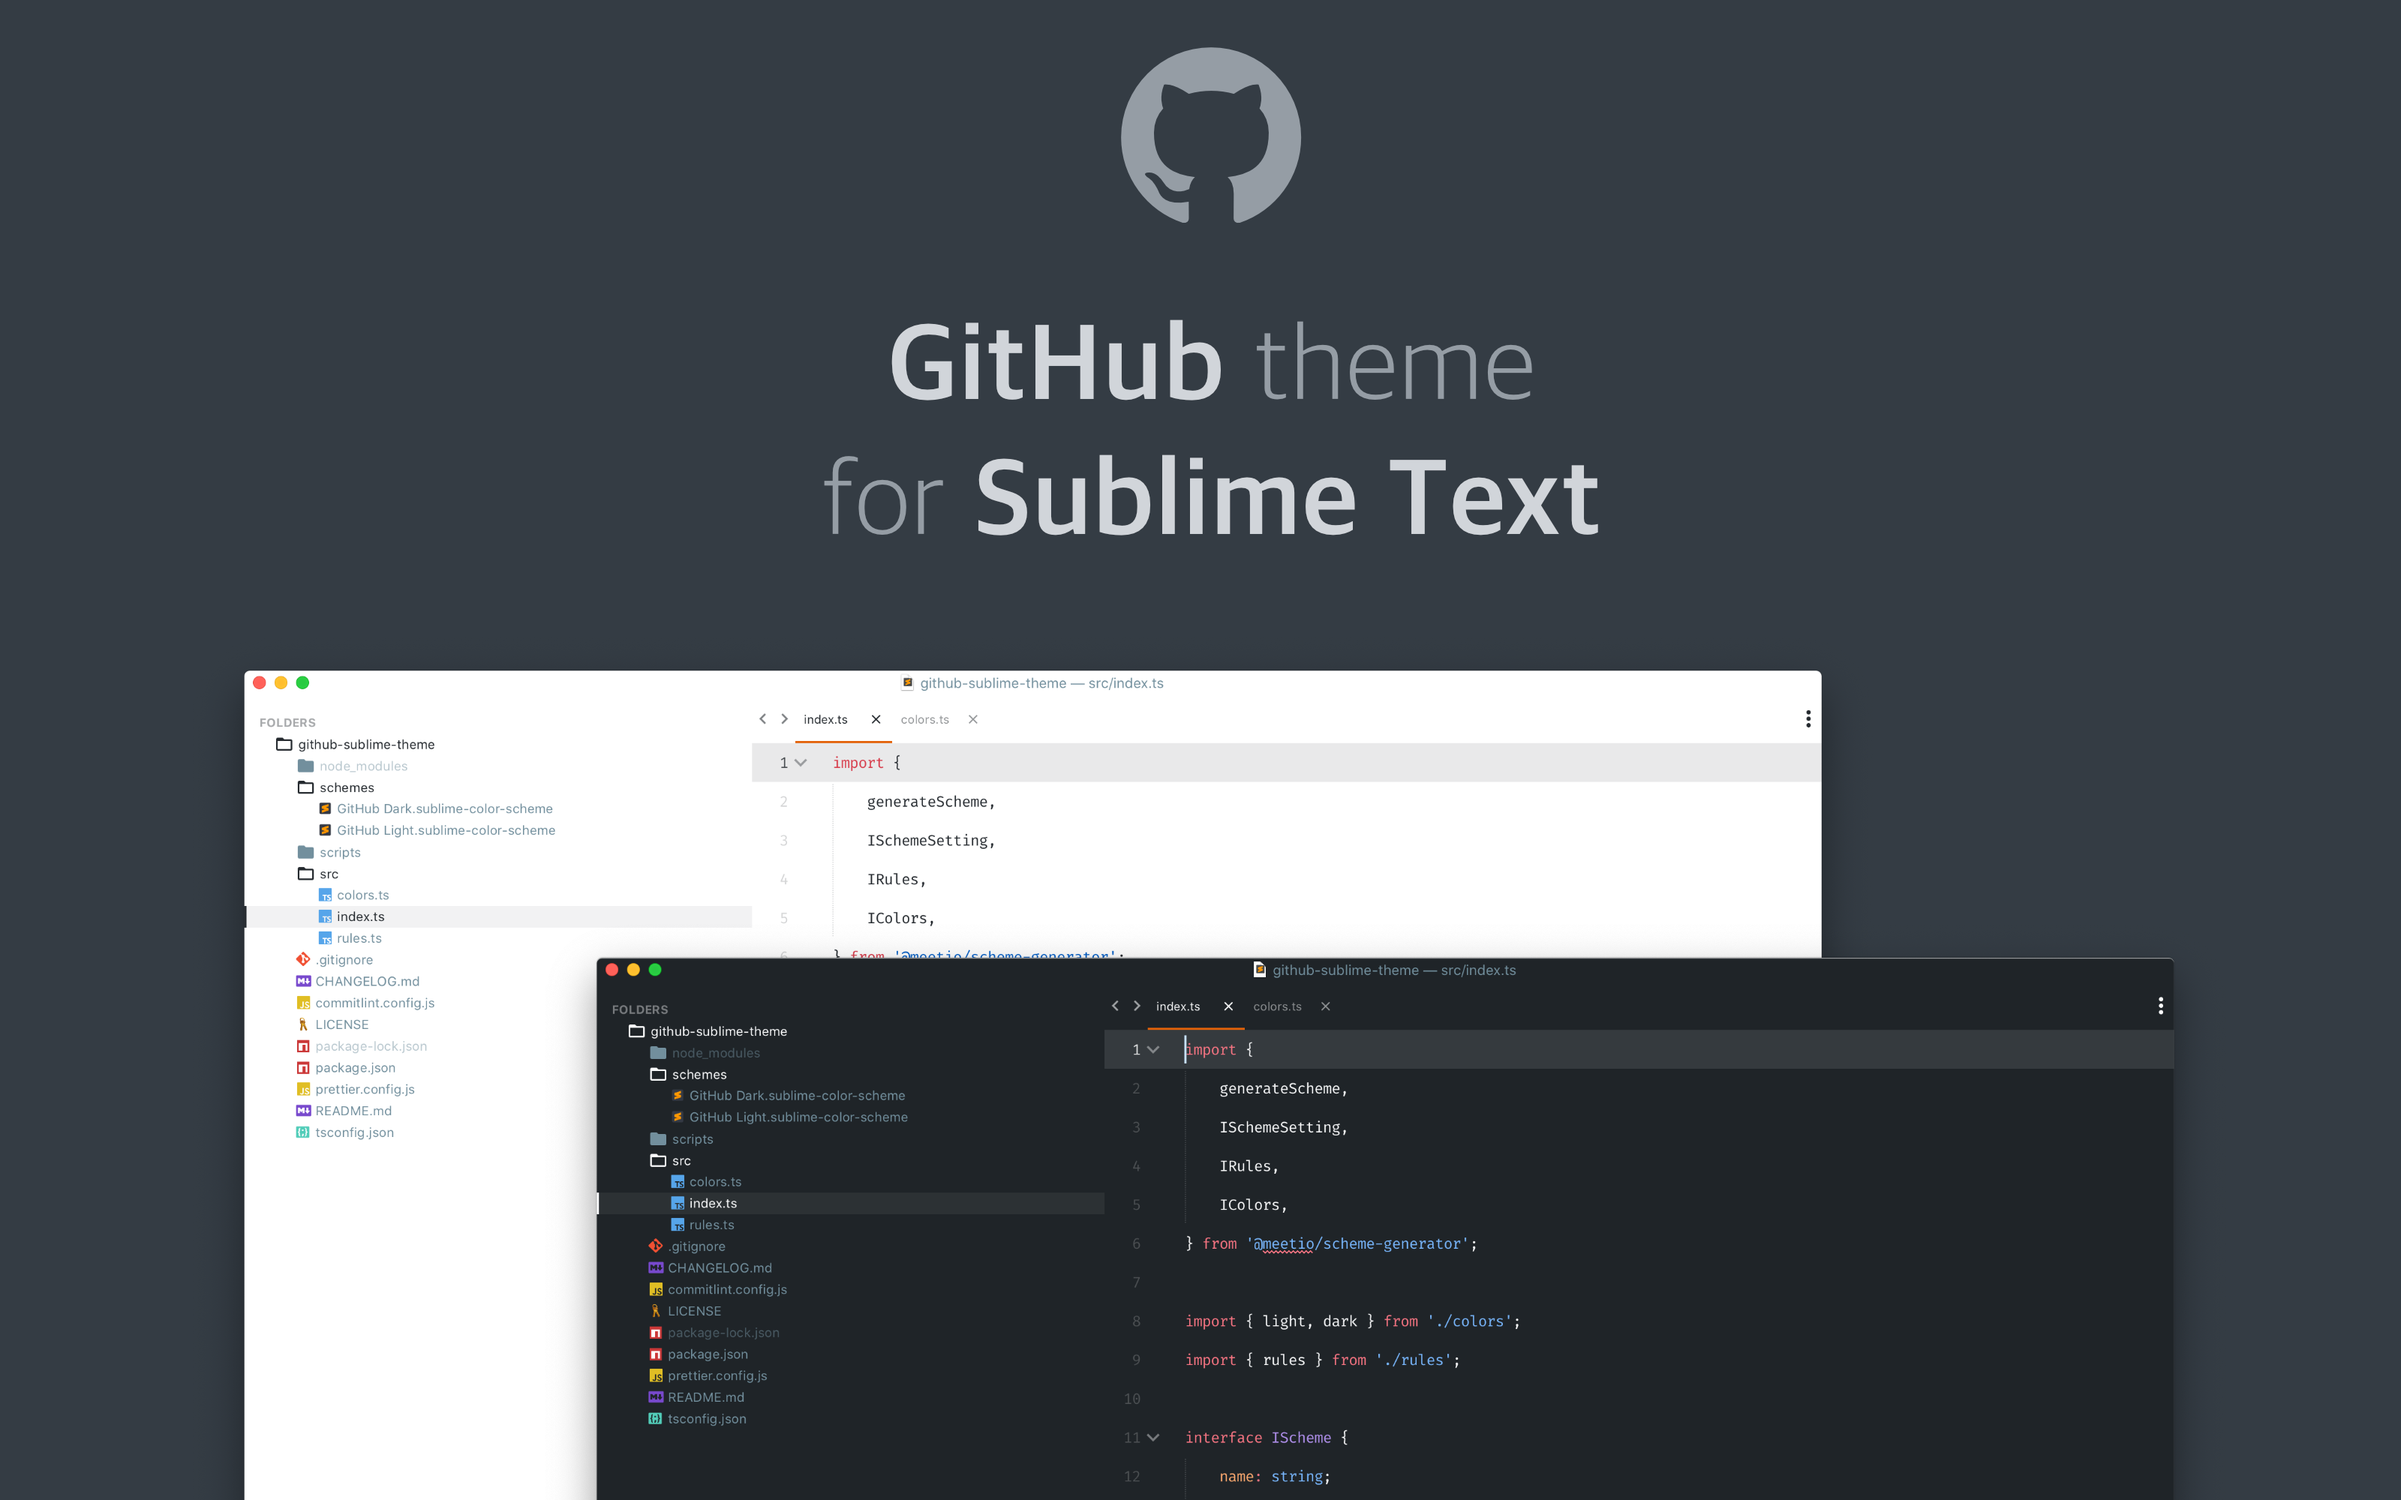
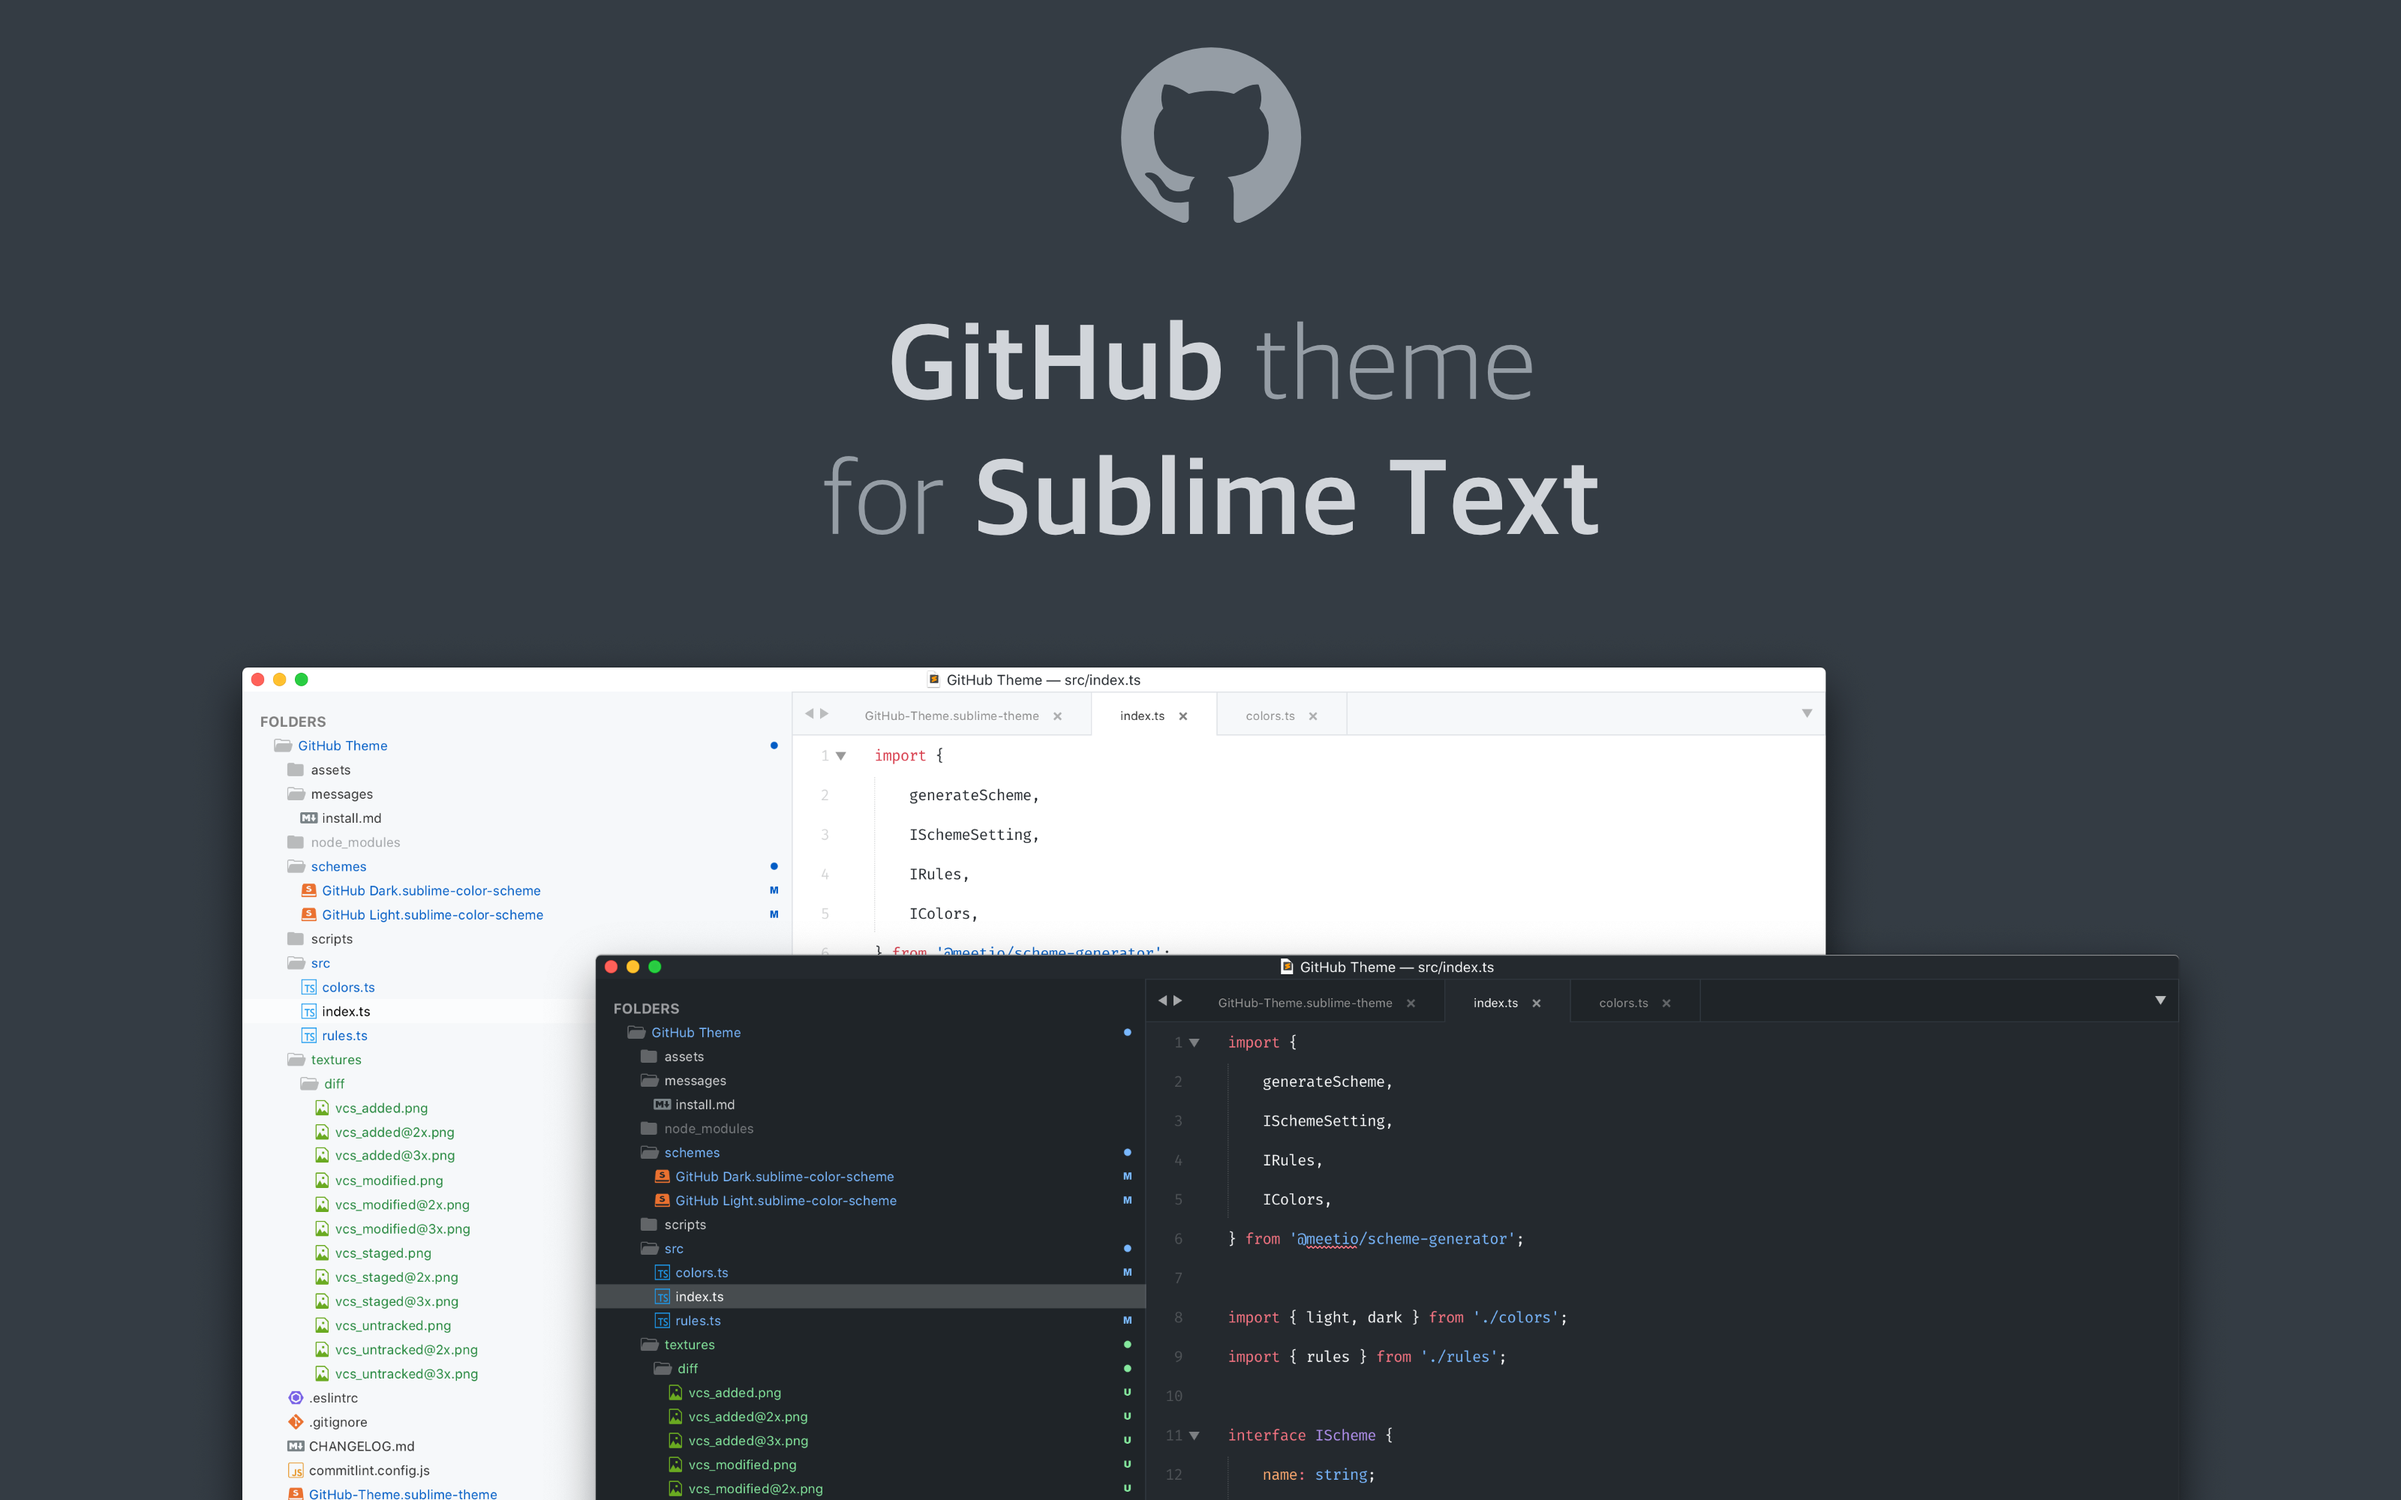
feat(vcs): add support for vcs files changed

diff --git a/src/rules.ts b/src/rules.ts
@@ -210,6 +210,20 @@ export const rules: Array<IRules> = [
         },
     },
     {
+        scope: ['markup.underline'],
+        settings: {
+            font_style: 'underline',
+            foreground: 'var(purple)',
+        },
+    },
+    {
+        scope: ['markup.underline.link'],
+        settings: {
+            font_style: 'underline',
+            foreground: 'var(red)',
+        },
+    },
+    {
         scope: ['meta.diff.range'],
         settings: {
             foreground: 'var(blue)',

diff --git a/src/colors.ts b/src/colors.ts
@@ -19,7 +19,7 @@ const dark: IColors = {
     deprecated: colors.red[7],
     invalid: colors.red[7],
     diffAdded: colors.green[5],
-    diffModified: colors.yellow[5],
+    diffModified: colors.blue[5],
     diffDeleted: colors.red[5]
 };
 
@@ -41,7 +41,7 @@ const light: IColors = {
     deprecated: colors.red[7],
     invalid: colors.red[7],
     diffAdded: colors.green[5],
-    diffModified: colors.yellow[5],
+    diffModified: colors.blue[5],
     diffDeleted: colors.red[5]
 };
 
